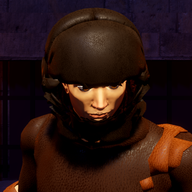
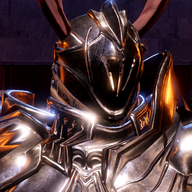
Surum 25: canli mac duraklatma, aninda yeniden baslatma, kritik yok
- Arkadas macinda Duraklat (Bosluk, HUD dugmesi); ag mesaji "pause"
- R / duraklatma menusu ile aninda Yeniden Baslat; canli macta "restart"
- Kritik ve hasar oynamasi kaldirildi; Sirt Yaran sabit carpan 2.8
- Buz Muhru siperle engellenemez, kacilamaz; bot siper acmaz
- Titan hp_mult 0.83; yeni sinif portreleri; ag surumu 20

diff --git a/CLAUDE.md b/CLAUDE.md
@@ -136,6 +136,9 @@ Oyun icin UCRETSIZ her program, arac ve varlik indirilip kullanilabilir. Simdili
 - KULLANICI VIDEOSU DUZELTMELERI (2026-11-06, 4 kayit incelendi): (1) Balyoz Cokusu balyozu kendi ayagina indiriyordu, rakibe degmeden hasar yaziyordu + sicrayis ekrandan cikiyordu -> spin "fwd": 0.6, "lift": -0.5 (1.0 test sahnesinde rakibin icine giriyordu); AKICILIK ~7 kat (sicrayis hizli). (2) Yeni olum (Pro Magic Death Backward) 1.8 sn sendeliyor ve yere dusunce bir bacagini dik havaya tekmeliyor (hareketin kendisinde, 2.4-2.8 sn) -> T_Death eski two handed sword death a GERI ALINDI, DOWN_SPAN T_ [0.9, 1.5]. Videoda normal vurus ve Buz Kolu/savusturma sorunsuzdu; zafer kukremesi rauntta gorunmuyor (kontrol edilmedi). Paladin Gokten Inis te de karakter ekrandan cikiyor (eski, dokunulmadi).
 - GIRTLAK KAVRAMA KALDIRILDI (kullanici karari, 2026-11-06; SURUM 24 YAYINDA, net VERSION 19): Titan 4. yetenek = "slam" Sicrayis Darbesi (Yikimin 2026-11-06 oncesi hareketi great sword jump attack, T_Slam, hit 1.18 lift 0 fwd 0.2 face; breaks, unlock 5, cd 12, mult 0.9, windup 0.85, range 2.2). Simgesi gecici olarak Paladin Gokten Inis simgesinin kopyasi (art/icons/slam.*). Yikim (6) Bash ile aynen kaldi. Testler: test_core _grab_check silindi; _windup_check kesici olarak Ezici Hamle (0.45 sn; Titanda 0.5ten hizli tek kesici) kullanir. DENGE: Kavrama kalkinca Titan GUCLENDI (bot Kavramayi bosa harciyordu): once Paladin>Titan %41/Berserker>Titan %53 idi, kaldirinca %21/%39. Titan hp_mult 0.92 -> 0.84: Paladin-Titan %32, Berserker-Titan %55.5 (dongu korundu; Titan Paladine biraz fazla guclu, kaba denge kabul). Battle/brain icindeki "grab" bayragi kodu duruyor (kullanilmiyor).
 - TITAN TUTUS KOK SEBEP + DUZELTME (2026-11-06; SURUM 24 YAYINDA + commit e307f68, kullanici oynamadi): OLCUM ARACI `godot/tests/_onizleme/tutus.gd` (Godot --path godot --script res://tests/_onizleme/tutus.gd -- brute T_Idle,T_KAttack,...): her karede skeleton_updated SONRASI (IK dahil son poz; process_frame sonrasi okuma IK oncesi pozu verir = YANLIS) sol avuc (GripTarget.center) ile sap arasi, sapin govdeye girmesi (kalca-boyun 0.16 m, bas 0.13 m), ayak yuksekligi. Yakin plan: `tutus_foto.gd -- brute <anim> <sn> <cikti>`. BULGULAR: (1) sapin govdeye girmesinin kaynagi MX_SLEDGE_GRIP 0.40: sag elin altinda 40 cm sap kaliyordu (Mixamo kilic kabzasi ~10-15 cm), el gogse gelince sap govdeye giriyordu (T_ZAttack karelerin %44u, T_Triple %43, 12-16 cm). MX_SLEDGE_GRIP = 0.21 (0.25/0.15 da denendi): govdeye girme %0-6, en derin 4 cm, sol el sapta. (2) Sol elin sapi birakmasinin kaynagi hareketlerin KENDISI (sol el sapi birakiyor, kol yetismiyor): bekleme great sword idle (4) %35 kare, Balyoz Cokusu (Creature jump attack) %50, Yikim (Bash) %69, Yer Sarsintisi (Magic Area Attack 01) %62, Demir Savurus %26, Buz Muhru %25. Bekleme -> great sword idle (paket ilk idle; iki el %100 sapta). (3) Normal vurus T_ZAttack vurustan sonra iki buklum kaliyordu -> T_KAttack (Kevin Iglesias Attack2H01, hit 0.62 start 0.3 end 1.25 face): sol el %98 sapta, govdeye girmez, hasar-vurus 19/6 ms, dik toparlanir. Gercek oyun penceresinde (--atk ve --skills) gorsel kontrol edildi. (4) Ayak: yerinde oynatmada taban hep 0.106 (SOLE ile uyumlu), kayma olculmedi (karakter yurumuyordu). Titan hp_mult 0.84 -> 0.80 (kullanici: 1 tik nerf): Paladin-Titan %36.5, Berserker-Titan %60. SIRADAKI: sol eli birakan yetenekler icin hareket degisimi; Balyoz Cokusu agirlik/efekt/rakip tepkisi; Berserker iki balta.
+- CANLI MAC DURAKLATMA + YENI PORTRELER (kullanici istegi, 2026-11-06; YAYINLANMADI): (1) Arkadaslarla (canli) macta Duraklat: HUD sag alt "Duraklat" dugmesi, Bosluk tusu; Esc duraklatmayi kapatir ya da menuyu acar. `NetSession.send_pause(bool)` guvenilir "pause" mesaji, `pause_received` sinyali; `GameMain._on_pause` / `_on_remote_pause`: iki tarafta `_paused`, oda sahibi savasi ilerletmez; pencerede "Sen duraklattin" / "Rakip duraklatti"; iki taraftan biri Devam Et deyince ikisi surer. 3-2-1 geri sayim ve raunt arasinda (`_hold_t`/`pause_t`) duraklatma kapali (HUD sayaci gercek saatle akar, kayiyordu; bilgisayar macinda da). Test: `--net-host`/`--net-join` artik tur 0da katilan Bosluk ile duraklatir: DURAKLAT satirlari (iki tarafta saat 0.00 ilerledi, rakip 0 kaydi, devam calisti). Ag mesaji eklendigi icin eski surumlu oyuncu duraklatamaz ama mac bozulmaz (bilinmeyen mesaj yok sayilir). (2) Sinif secim portreleri (`art/portraits/*.png`) guncel Sketchfab/Mixamo modellerinden `-- --portraits=<klasor>` ile yeniden cekildi; Mixamo Titanda balyoz (`_hand`) portrede gizlenir.
+- KRITIK YOK + ANINDA YENIDEN BASLATMA (kullanici karari, 2026-11-06; YAYINLANMADI): (1) "Her skill ayni vursun, iyi oynayan kazansin": `Battle._hit` kritik zari ve %±8 hasar oynamasi KALDIRILDI (ayni vurus hep ayni hasar; Battle icinde baska zar yok). `Rules` stat "crit" hep 0, aksesuar artik kritik vermez (eski esyalardaki crit yok sayilir), karakter ekraninda Kritik satiri ve ceviklik ipucu "saldiri hizi". Sirt Yaran (hep kritikti, x1.75) sabit carpan 1.6 -> 2.8, force_crit kaldirildi. Berserker aciklamasi "Hizli vuruslar ve zehir". Denge (800 mac): Paladin-Berserker %59, Paladin-Titan %34.5 (Titan %65.5), Berserker-Titan %59; maclar ~3-4 sn uzadi. (2) Aninda yeniden baslatma: R tusu + duraklatma menusunde "Yeniden Baslat (R)" (`GameMain._restart_now`): bilgisayara karsi ayni sinif/asama yeni mac (yarim mac odul/yenilgi saymaz), Test Modunda eski "Yeniden Oyna"; canli macta oda sahibi `_start_host_match`, katilan `NetSession.send_restart` -> oda sahibi baslatir (iki taraf ayni anda yeni mac). Mac bitmisse tekrar oyna gibi. `_begin` artik `_set_paused(false)` cagirir (duraklatma penceresi acik kalmaz). Test: --net-join tur 0da R: "YENIDEN BASLAT join: yeni mac=true". NOT: --net testinden once eski kod.txt silinmeli (yoksa katilan eski odaya baglanmaya calisir).
+- BUZ MUHRU ENGELLENEMEZ + TITAN CAN (kullanici karari, 2026-11-06; YAYINLANMADI): Buz Muhru (Titan 5. yetenek) "unblockable": true: `Battle` gecikmeli vurus cozumunde siper/Buz Kolu (_guarded) ve menzil (x1.4) kontrolu atlanir; tek cozum hazirlik bitmeden Titani BOZAN bir yetenekle vurmak (eski kural aynen). Bot (`Brain._try_parry`) engellenemez buyuye siper acmaz. test_core _frost_check: hazirlikta Kalkan Duvari acilsa da donma. Titan hp_mult 0.80 -> 0.85 -> kullanici "%4" dedi: 0.83. DENGE (800 mac, 0.83): Paladin-Titan %26.3 (Titan %73.7), Berserker-Titan %48.6: Titan guclu, kullanici bilerek istedi. SURUM 25 YAYINDA (net VERSION 20; duraklatma, yeniden baslatma, kritik yok, portreler dahil).
 - PC ONCELIKLI (kullanici karari): PC surumunun kalitesi telefon icin ASLA dusurulmez. Telefon ikinci planda, ileride kaldirilabilir; gerekirse yalniz telefon/web surumu sadelestirilir (dusuk model, dusuk doku), PC tam kalite kalir.
 - KARAKTER GORUNUSU (KULLANICI SECTI: Paladin = B Medieval Knight (by__Rx), Titan = C Paladin (DJMaesen), Berserker = D 3DRT Fantasy Warrior (3DRT.com); Quaternius begenilmedi; kullanici Sketchfab'den indirecek, klasor `mixamo-animasyon/Karakterler`; Emegi Gecenler'e (`Screens.CREDITS`) yazar adlari CC BY 4.0 ile EKLENDI): Mixamo karakter secenekleri az bulundu. Arastirilan: Quaternius 'Modular Character Outfits - Fantasy' (CC0, Kasim 2025, Universal Base Characters ile ayni iskelet, 12 kiyafet, sevimli tarz; tam zirhli sovalye Paladin'e uyar) ve Sketchfab (CC Attribution = oyunda Emegi Gecenler'e yazar adi yazilmali; Sketchfab indirme hesap ister). Adaylar `kontrol-goruntuleri/karakter_adaylari.png`: A Armored Guard Knight (DM-913, 25k ucgen, iskeletli), B Medieval Knight (by__Rx, 42k), C Paladin (DJMaesen, 17k, boynuzlu), D 3DRT Fantasy Warrior (3DRT.com, 2.5k, barbar), E Gladiator (Andy Woodhead, 117k, agir). Telif riskli (oyun/film karakteri: Conan, Paladins, WoW) modeller elendi.
 - Sketchfab model hatti: `godot/tools/model_prep.py` (Blender) ilk kare durusunu kalici yapar, kemikleri Quaternius adlarina cevirir (ayar json: `berserker_model.json` remove/height/twist/bones), omuz cizgisinden yonu ve Head yuksekliginden boyu esitler, kol/bacaklari Hero T durusuna getirir, kemik eksenlerini Hero ile ayni yapar ve armature adini Hero'nunkiyle ayni yapar -> `godot/assets/sketchfab/<sinif>.glb` (+ _LISANS.txt). Sonra mixamo_bake hedef olarak bu glb ile calistirilir (onkol bukulme kemikleri de doner). Oyun: `CharacterView.MODELS` + `_scene_of`; kendi modelinde zirh/doku boyama yapilmaz, yalniz silah takilir. BERSERKER YAPILDI (3DRT, 2.2k ucgen, kendi kilic/kalkani silindi); --skills 1-11 ms; kullanici gormedi/onaylamadi. Paladin ve Titan sirada, sonra yavas savas plani.
